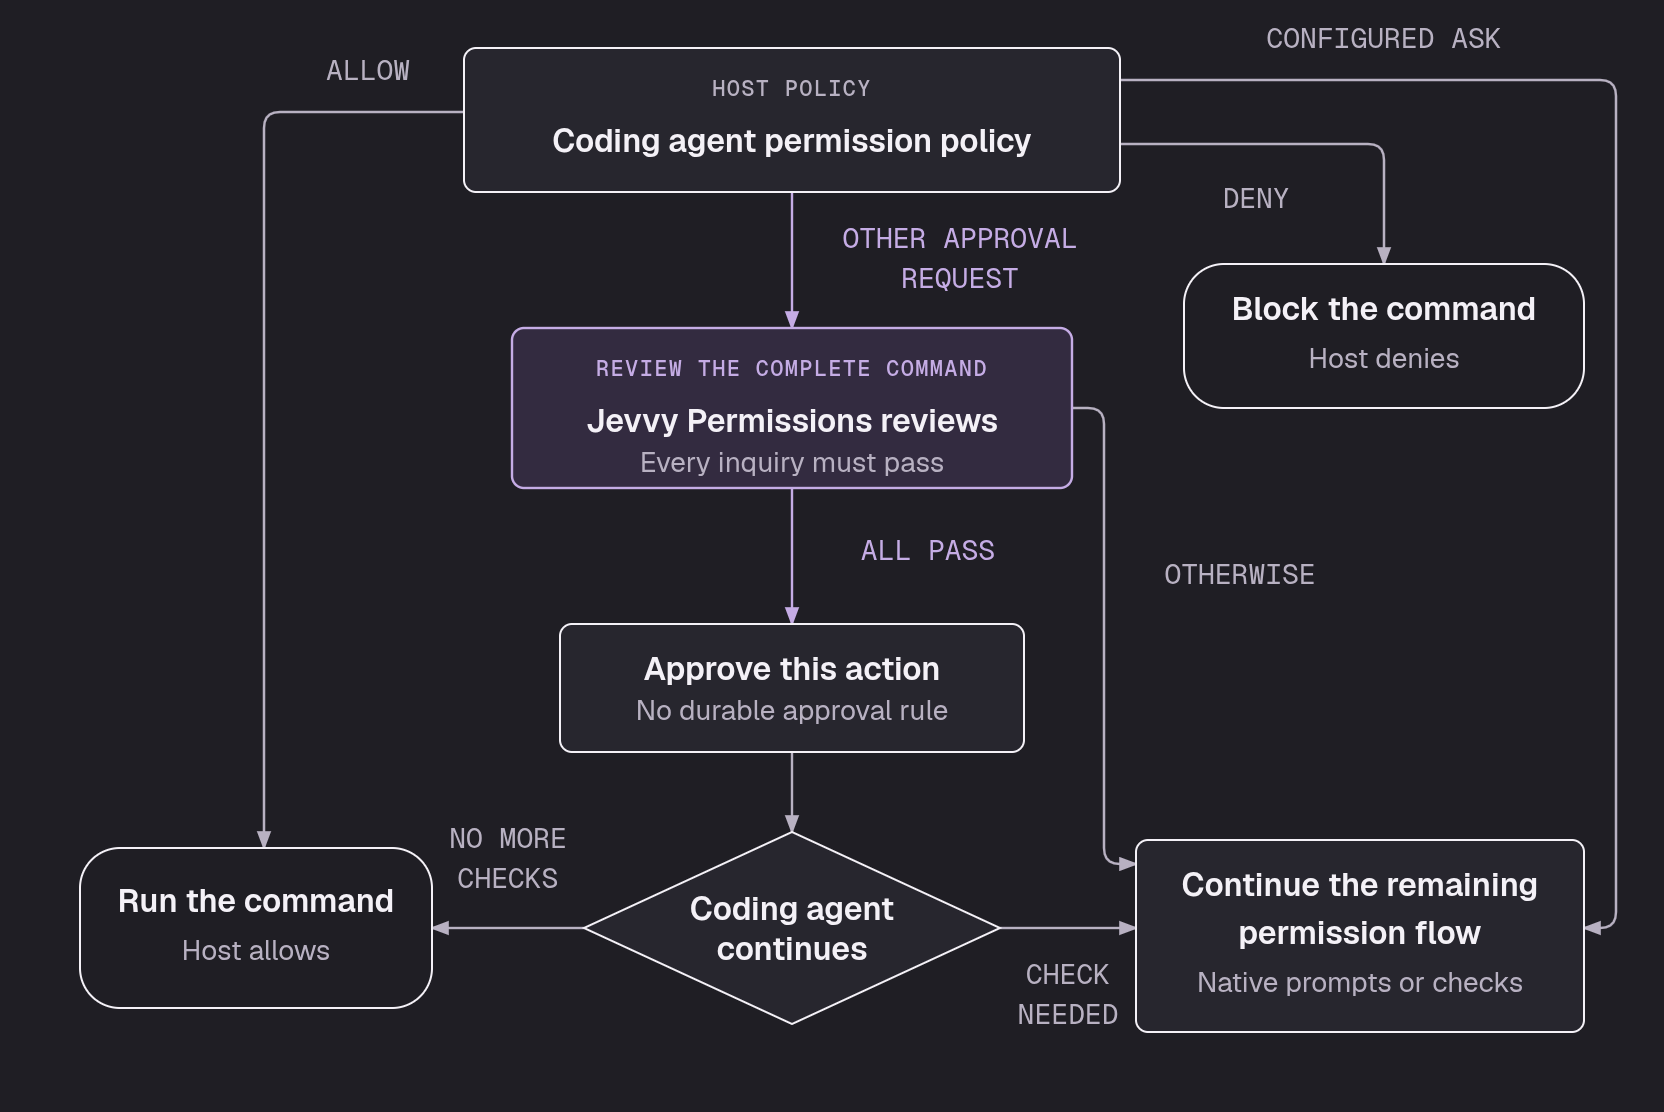
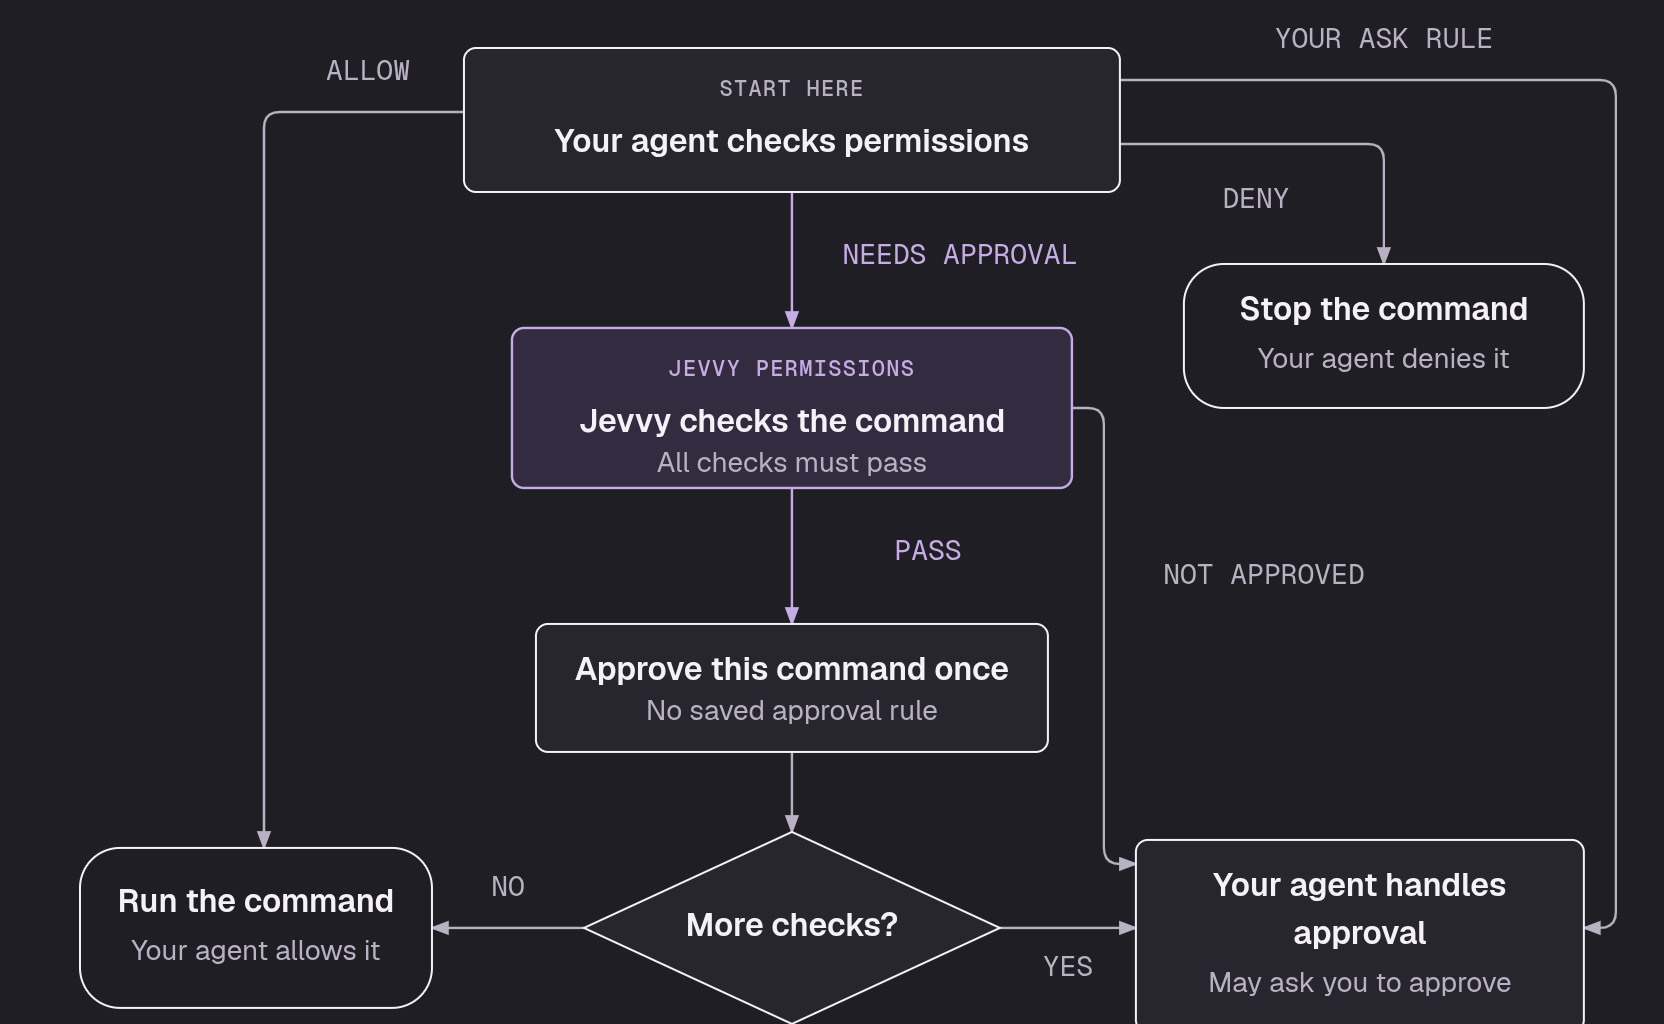
docs(readme): explain approval flow in plain language
Describe what happens to the user's command instead of internal permission-flow terminology. Keep the possibility of native automatic acceptance explicit with 'may ask you to approve', preserve full-command review and all existing branches, and widen the approval label without shrinking type.

diff --git a/assets/jevvy-permission-flow.html b/assets/jevvy-permission-flow.html
@@ -52,11 +52,11 @@
 <body>
   <main>
     <h1>The host decides. Jevvy can approve.</h1>
-    <p class="lead">Existing host decisions stay final. Jevvy reviews eligible shell approval requests as complete commands.</p>
+    <p class="lead">Your agent checks permissions first. Jevvy can approve a command, but never overrides your agent's decisions.</p>
     <figure>
       <svg xmlns="http://www.w3.org/2000/svg" viewBox="0 0 832 556" role="img" aria-labelledby="jevvy-flow-title jevvy-flow-desc">
         <title id="jevvy-flow-title">Jevvy Permissions approval flow</title>
-        <desc id="jevvy-flow-desc">The coding agent preserves native allow, deny, and configured ask decisions, while Jevvy can approve eligible requests and leaves every other result to the host's remaining permission flow.</desc>
+        <desc id="jevvy-flow-desc">Your agent keeps its allow, deny, and specific ask decisions, while Jevvy checks other commands needing approval and leaves unapproved requests and any further checks to your agent.</desc>
         <defs>
           <marker id="jevvy-arrow" markerWidth="8" markerHeight="6" refX="7" refY="3" orient="auto"><path d="M0 0L8 3L0 6Z" fill="var(--muted)"/></marker>
           <marker id="jevvy-arrow-accent" markerWidth="8" markerHeight="6" refX="7" refY="3" orient="auto"><path d="M0 0L8 3L0 6Z" fill="var(--accent)"/></marker>
@@ -74,52 +74,51 @@
         <g>
           <rect class="mask" x="148" y="24" width="72" height="24"/><text class="label" x="184" y="40">ALLOW</text>
           <rect class="mask" x="584" y="88" width="88" height="24"/><text class="label" x="628" y="104">DENY</text>
-          <rect class="mask" x="616" y="8" width="152" height="24"/><text class="label" x="692" y="24">CONFIGURED ASK</text>
-          <rect class="mask" x="408" y="108" width="144" height="44"/><text class="label focal-text" x="480" y="124">OTHER APPROVAL</text><text class="label focal-text" x="480" y="144">REQUEST</text>
-          <rect class="mask" x="408" y="264" width="112" height="24"/><text class="label focal-text" x="464" y="280">ALL PASS</text>
-          <rect class="mask" x="564" y="276" width="112" height="24"/><text class="label" x="620" y="292">OTHERWISE</text>
-          <rect class="mask" x="220" y="408" width="68" height="44"/><text class="label" x="254" y="424">NO MORE</text><text class="label" x="254" y="444">CHECKS</text>
-          <rect class="mask" x="504" y="476" width="60" height="44"/><text class="label" x="534" y="492">CHECK</text><text class="label" x="534" y="512">NEEDED</text>
+          <rect class="mask" x="616" y="8" width="152" height="24"/><text class="label" x="692" y="24">YOUR ASK RULE</text>
+          <rect class="mask" x="408" y="116" width="144" height="24"/><text class="label focal-text" x="480" y="132">NEEDS APPROVAL</text>
+          <rect class="mask" x="408" y="264" width="112" height="24"/><text class="label focal-text" x="464" y="280">PASS</text>
+          <rect class="mask" x="564" y="276" width="136" height="24"/><text class="label" x="632" y="292">NOT APPROVED</text>
+          <rect class="mask" x="220" y="432" width="68" height="24"/><text class="label" x="254" y="448">NO</text>
+          <rect class="mask" x="504" y="472" width="60" height="24"/><text class="label" x="534" y="488">YES</text>
         </g>
         <g data-node="host-policy">
           <rect class="node" x="232" y="24" width="328" height="72" rx="6"/>
-          <text class="tag" x="396" y="48">HOST POLICY</text>
-          <text class="name" x="396" y="76">Coding agent permission policy</text>
+          <text class="tag" x="396" y="48">START HERE</text>
+          <text class="name" x="396" y="76">Your agent checks permissions</text>
         </g>
         <g data-node="run-command">
           <rect class="terminal" x="40" y="424" width="176" height="80" rx="20"/>
           <text class="name" x="128" y="456">Run the command</text>
-          <text class="detail" x="128" y="480">Host allows</text>
+          <text class="detail" x="128" y="480">Your agent allows it</text>
         </g>
         <g data-node="block-command">
           <rect class="terminal" x="592" y="132" width="200" height="72" rx="20"/>
-          <text class="name" x="692" y="160">Block the command</text>
-          <text class="detail" x="692" y="184">Host denies</text>
+          <text class="name" x="692" y="160">Stop the command</text>
+          <text class="detail" x="692" y="184">Your agent denies it</text>
         </g>
         <g data-node="jevvy-review">
           <rect class="node node-focal" x="256" y="164" width="280" height="80" rx="6"/>
-          <text class="tag focal-text" x="396" y="188">REVIEW THE COMPLETE COMMAND</text>
-          <text class="name" x="396" y="216">Jevvy Permissions reviews</text>
-          <text class="detail" x="396" y="236">Every inquiry must pass</text>
+          <text class="tag focal-text" x="396" y="188">JEVVY PERMISSIONS</text>
+          <text class="name" x="396" y="216">Jevvy checks the command</text>
+          <text class="detail" x="396" y="236">All checks must pass</text>
         </g>
         <g data-node="approve-action">
-          <rect class="node" x="280" y="312" width="232" height="64" rx="6"/>
-          <text class="name" x="396" y="340">Approve this action</text>
-          <text class="detail" x="396" y="360">No durable approval rule</text>
+          <rect class="node" x="268" y="312" width="256" height="64" rx="6"/>
+          <text class="name" x="396" y="340">Approve this command once</text>
+          <text class="detail" x="396" y="360">No saved approval rule</text>
         </g>
         <g data-node="host-continues">
           <path class="node" d="M396 416L500 464L396 512L292 464Z"/>
-          <text class="name" x="396" y="460">Coding agent</text>
-          <text class="name" x="396" y="480">continues</text>
+          <text class="name" x="396" y="468">More checks?</text>
         </g>
         <g data-node="native-flow">
           <rect class="node" x="568" y="420" width="224" height="96" rx="6"/>
-          <text class="name" x="680" y="448">Continue the remaining</text>
-          <text class="name" x="680" y="472">permission flow</text>
-          <text class="detail" x="680" y="496">Native prompts or checks</text>
+          <text class="name" x="680" y="448">Your agent handles</text>
+          <text class="name" x="680" y="472">approval</text>
+          <text class="detail" x="680" y="496">May ask you to approve</text>
         </g>
       </svg>
-      <figcaption>Jevvy approves only the current action; the host retains the rest of its permission flow.</figcaption>
+      <figcaption>Jevvy can approve this command once. Your agent still decides whether it can run or needs your approval.</figcaption>
     </figure>
     <footer>Diagram style based on <a href="https://github.com/cathrynlavery/diagram-design">Diagram Design</a>. The HTML is the editable source for the light and dark README images.</footer>
   </main>

diff --git a/README.md b/README.md
@@ -62,11 +62,11 @@ opencode plugin add @jevvy/permissions@0.5.1
 
 ## How it works
 
-Each coding agent evaluates its own permission policy first. Existing allow and deny decisions stay final. Visible configured `ask` rules remain human prompts. Jevvy Permissions reviews other unresolved shell approval requests as complete commands. It approves only the current action when every inquiry passes. Otherwise it abstains, leaving the agent's remaining permission flow unchanged.
+Your agent checks permissions first. Its allow and deny decisions stay final. Specific `ask` rules stay with your agent. For other requests that need approval, Jevvy Permissions checks the full shell command. It approves only the current command when all checks pass, without saving an approval rule. Otherwise your agent handles approval as usual.
 
 <picture>
   <source media="(prefers-color-scheme: dark)" srcset="./assets/jevvy-permission-flow-dark.png" />
-  <img src="./assets/jevvy-permission-flow-light.png" width="832" alt="Permission flow: host allow and deny decisions stay final, and configured asks remain with the host. Jevvy Permissions reviews other eligible approval requests and approves the current action only when every inquiry passes. Other results and any further checks stay in the host's remaining permission flow." />
+  <img src="./assets/jevvy-permission-flow-light.png" width="832" alt="Your agent checks permissions first. Allowed commands run; denied commands stop. Specific ask rules stay with your agent. Jevvy checks other commands that need approval and approves each command once only when all checks pass. Your agent handles anything Jevvy does not approve and any further checks, and may ask you to approve." />
 </picture>
 
 ## Configuration

diff --git a/.changeset/readme-permission-flow.md b/.changeset/readme-permission-flow.md
@@ -4,4 +4,4 @@
 
 ### Configuration
 
-Replace the README's permission flow diagram with readable light and dark images, preserving every existing branch and adding descriptive alternative text. Keep image links usable in the published npm README. Permission behavior is unchanged.
+Explain the README's permission flow in plain language with readable light and dark images, preserving every existing branch and adding descriptive alternative text. Keep image links usable in the published npm README. Permission behavior is unchanged.
